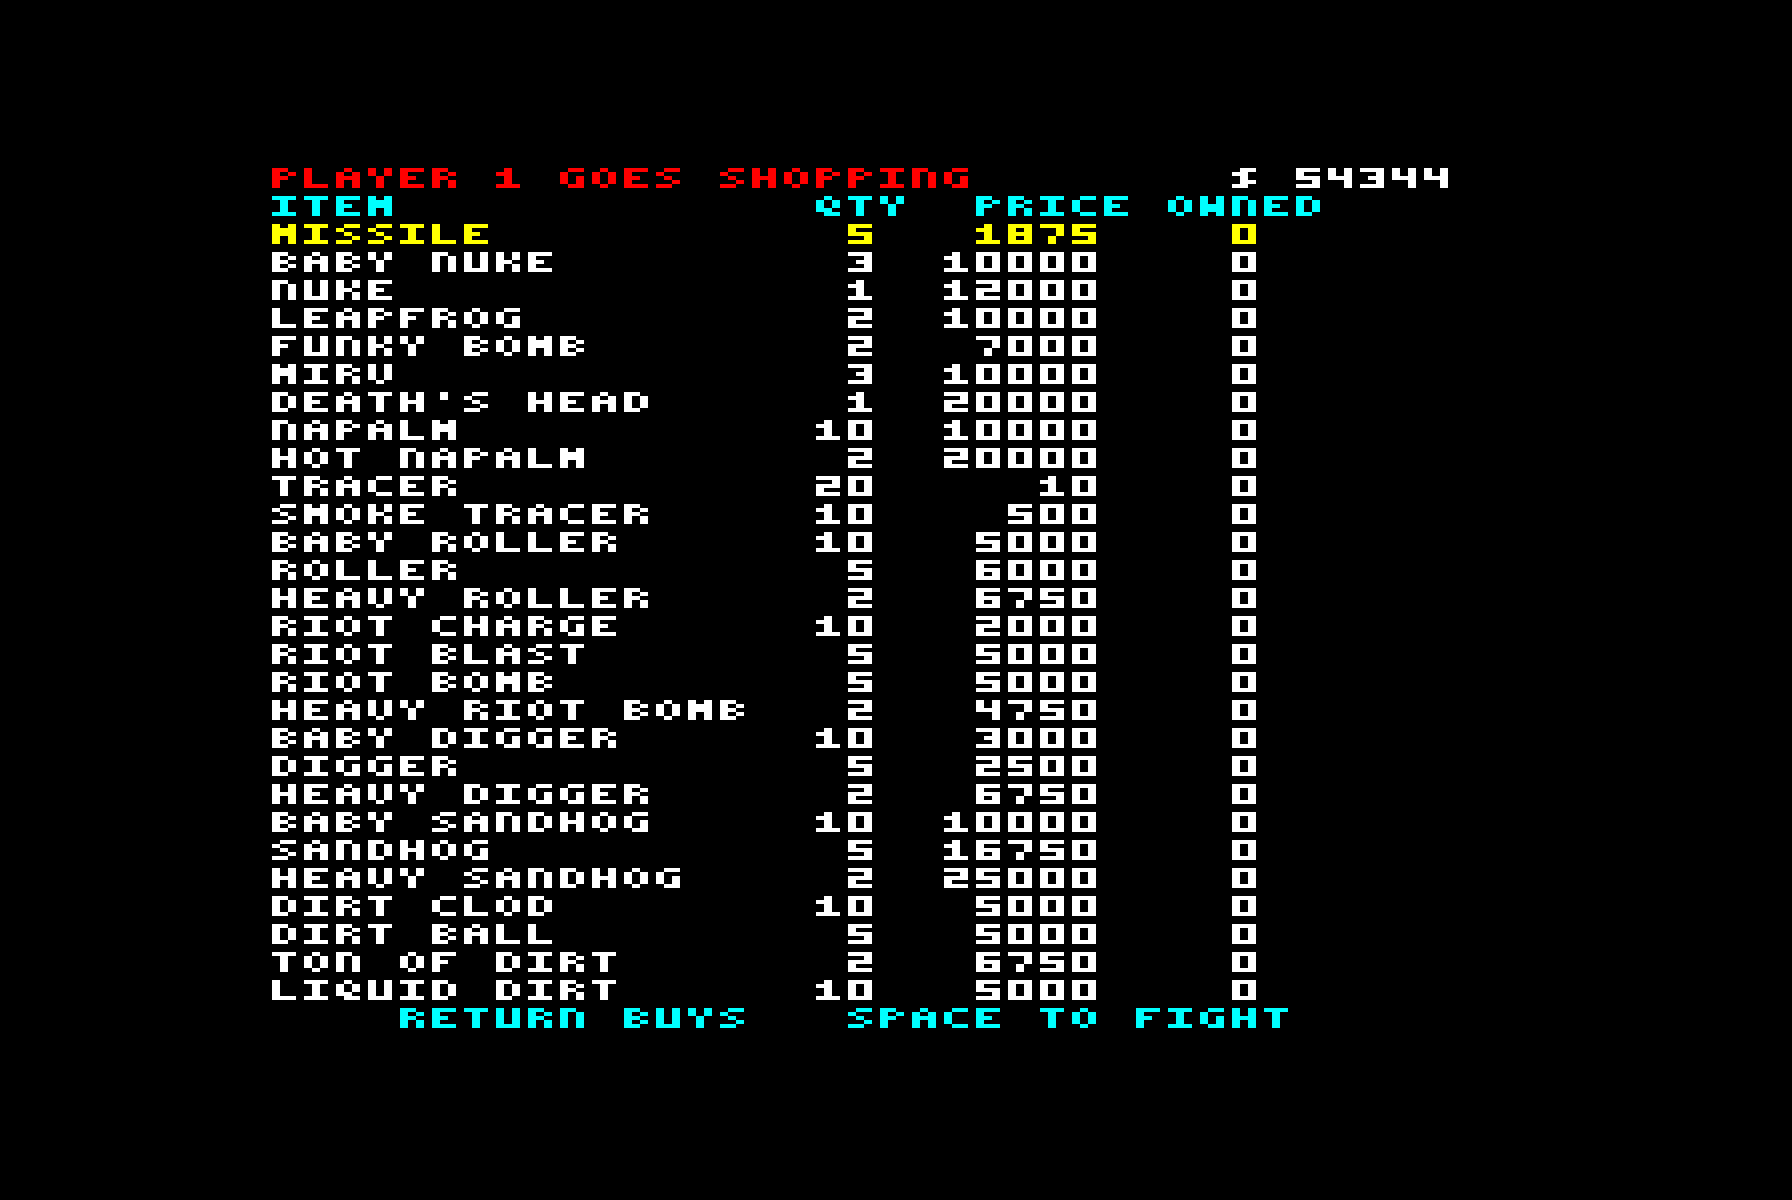
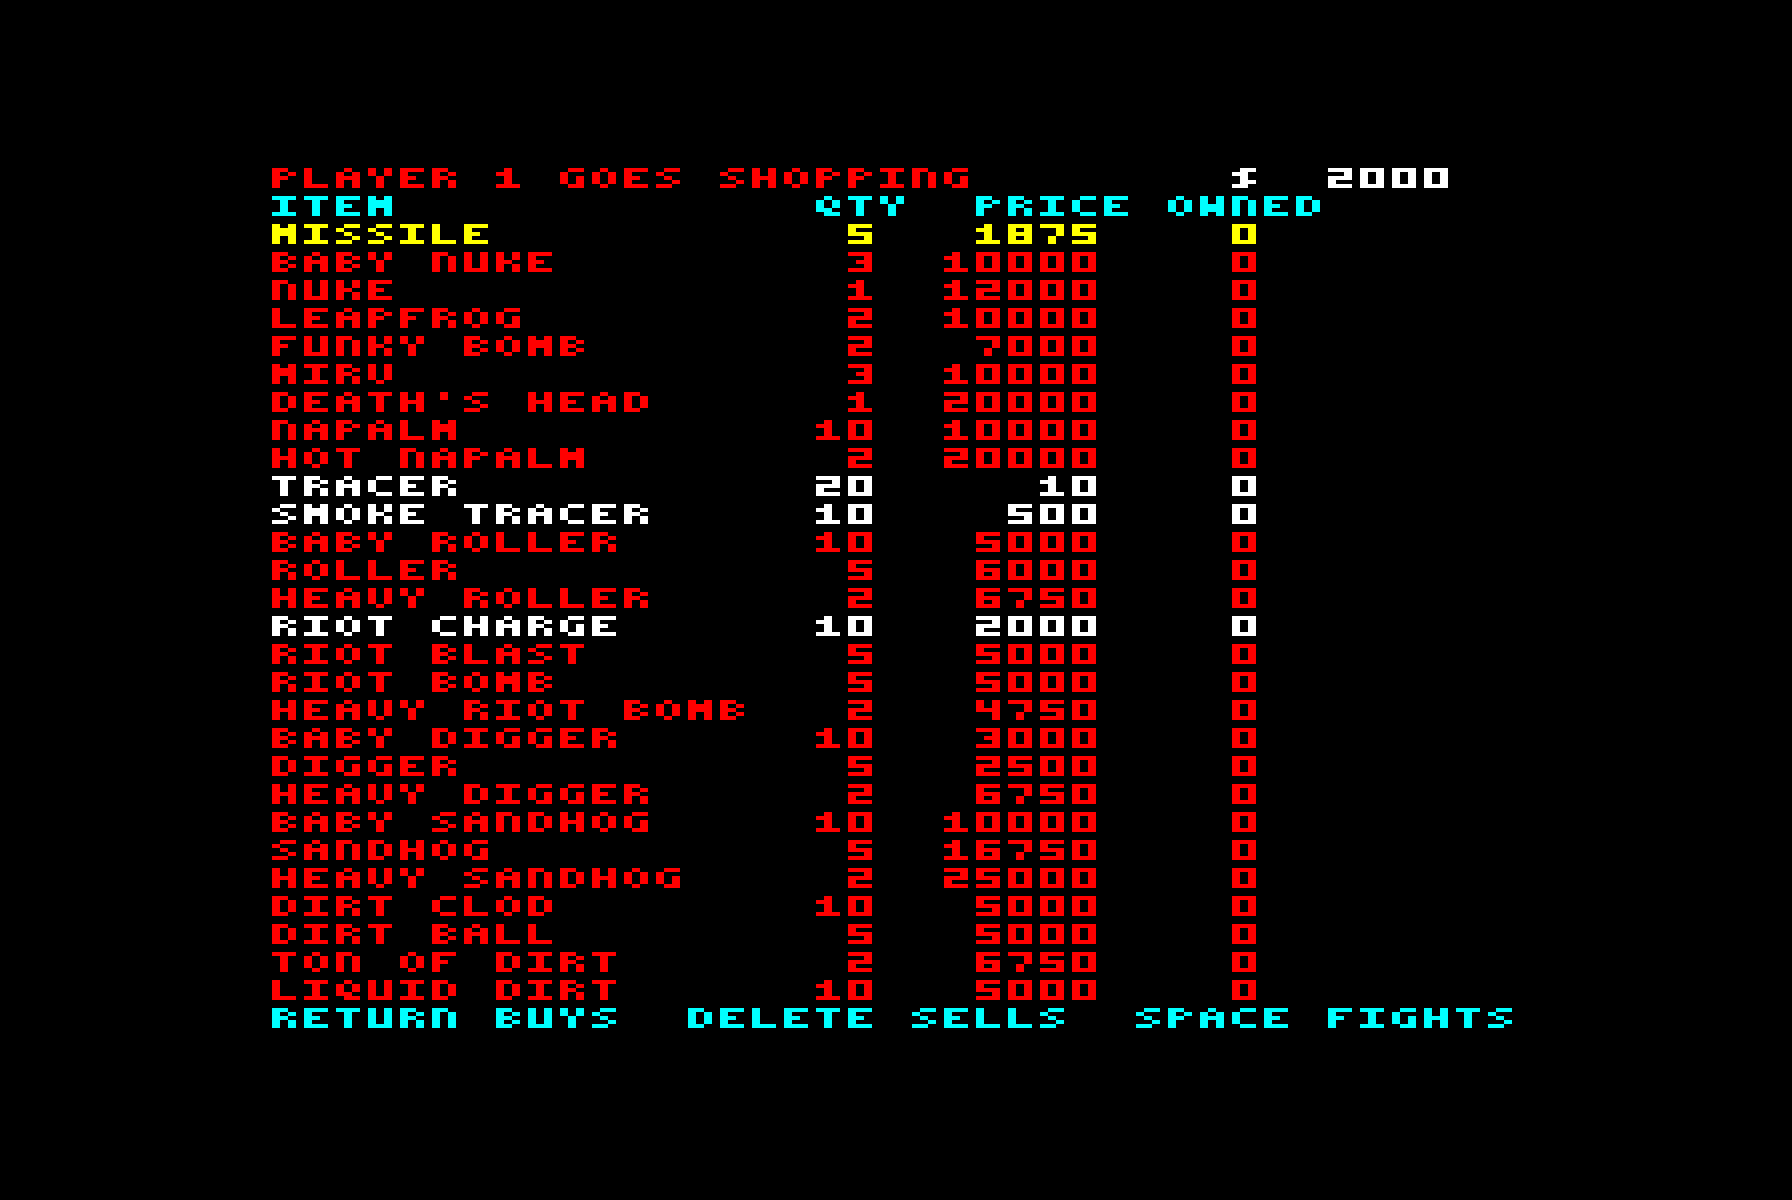
Bring the docs up to date for publication
- README: a screenshot of the MODE 7 title page; setup and shop shots
  retaken (the WIND line, DELETE SELLS); wind wording.
- DESIGN: the cut-down screen, the real memory map, 2-6 players.
- for-review: wind, walls and shields as they are now; the memory
  techniques are all done; the 0 v 8 scoreboard predates the winner fix.
- journal: the MODE 7 front end, and the winner bug.
- main.6502: the header said !BOOT runs SCORCH; it chains INTRO.

diff --git a/docs/for-review.md b/docs/for-review.md
@@ -13,7 +13,10 @@ and open questions so far:
   default STANDARD scoring also gives points for damage dealt (BASIC is
   kills and survival only; GREEDY ranks by net worth). Matt saw a 0 v 8
   scoreboard by round 6: with kill-and-win scoring a 2-player round is all
-  or nothing. Candidate: damage points, e.g. 1 per 25 damage.
+  or nothing. Candidate: damage points, e.g. 1 per 25 damage. **But**: from
+  the first day until 2026-10-04 every round's win (and its $10,000) went
+  to player 1 whoever won (`wait_frames` lost the winner, see journal.md),
+  so that scoreboard needs seeing again before scoring changes.
 - **Money.** Here: $50 per point of damage, $2,500 a kill, $10,000 for the
   round, $2,000 wage for everyone, ~5% interest, start with $0. The
   original's amounts are undocumented; the wage is ours (added after the
@@ -24,11 +27,11 @@ and open questions so far:
   Shooter +-60, Tosser +-120 halving per shot to a floor of +-7. Spoiler is
   the default opponent. Tune against how the original's feel.
 - **Wind.** Difference of two 0-15 randoms, shown x10 (so +-150, usually
-  small). The original: Max Wind 200, uniform per round, optional changing
-  wind.
-- **Walls.** Random each round from open, wrap, rubber, concrete. The
-  original defaults to one setting chosen in the menu (and has padded,
-  spring and erratic too).
+  small); steady, or changing by 10 on half the turns (a setup option).
+  The original: Max Wind 200, uniform per round, optional changing wind.
+- **Walls.** Random each round from open, wrap, rubber, concrete, padded
+  and spring, and erratic (a new kind each turn) a round in four. The
+  original defaults to one setting chosen in the menu.
 - **Draws.** A round still going after 50 turns is a draw. Not in the
   original.
 - **Fast-forward** once every human is dead. Not in the original.
@@ -36,8 +39,8 @@ and open questions so far:
   the original's contact triggers on.
 - **Dirt.** Always settles (the original's default). No suspended dirt.
 - **Turn order.** Rotates each round; the original defaults to random.
-- **Shields** absorb 60 damage then go; no deflection, no shield-on-
-  direct-hit rule.
+- **Shields** soak 40-200 points of damage then go; the two Mags also push
+  shells away. No shield-on-direct-hit rule.
 - **Missing weapons and items**: Earth Disrupter, Heat/Ballistic/
   Horizontal/Vertical Guidance, Auto Defense, Contact Trigger. Everything
   else in the original's shop is in. Our shields only soak damage; the
@@ -56,16 +59,8 @@ and open questions so far:
 - **Napalm strength**: 70 units x 2 damage (Hot: 120 x 3). Firing it into
   your own valley kills you, as it should; tune once played.
 
-## Memory techniques still on the table
+## Memory techniques
 
-- **Packed strings** (Matt's suggestion, the "5/8ths" trick he and Rich
-  used: low bits in nibbles plus a byte of top bits per 8 characters). The
-  text here is ~800 bytes of capitals, space and a little punctuation,
-  i.e. under 32 symbols: a 5-bit code with an escape for digits packs 8
-  characters into 5 bytes, ~300 bytes saved for a ~50-byte decoder. Baron
-  can pack at assembly time with a FUNCTION, so the source keeps plain
-  strings.
-- **A narrower screen**: 152 pixels instead of 160 frees 928 bytes (the
-  structural agent's measurement), at the cost of a 38-column status bar
-  and an own-font title.
-- **Spare zero page**: the allocator only reaches &42; &43-&8F is unused.
+All three once listed here are done (journal.md): packed strings, the
+shorter screen (29 rows rather than a narrower one), and the spare zero
+page, which now holds the busiest per-player arrays.

diff --git a/journal.md b/journal.md
@@ -457,3 +457,42 @@ a time, checking memory and committing after each:
   substep**: the flight code's one-pixel-a-substep promise holds.
 - **The turn loop's branches ran out of reach** when the drift and the
   erratic walls went in; they live in `between_turns` now.
+
+## A MODE 7 front end, for nothing
+
+`!BOOT` now chains `INTRO`, a BASIC program written inside the source
+with baron's `BASIC ... ENDBASIC` block (`src/intro.6502`): a teletext
+title over mosaic hills, three pages of instructions on I, then what
+`!BOOT` used to do, MODE 2 with the palette blacked out and `*RUN
+SCORCH`. SCORCH loads over it, so it costs the game no bytes; it only has
+to stay below &3000 with its variables (it ends near &2524).
+
+- **A line that fills all 40 columns wraps the cursor by itself**, so a
+  `PRINT` after it leaves a blank line: lines print with `;` and then
+  `IF POS PRINT`.
+- **Sixels are cheap to compute and slow to plot**: the hills went from
+  a visible crawl to instant by working out each column's height once
+  into `S%()` and building each cell as one `VDU` expression.
+- **The intro moved every tool's timing.** `startBeeb` presses SPACE
+  through it and waits 4s more; waiting exactly as long as the game
+  takes to start reading keys lost them, and the regress said so.
+
+## Every round went to player 1
+
+Retaking the README's screenshots, a tank that retreated won its round.
+`round_over` holds the winner in X across `wait_frames` ("keeps X", the
+comment said), but four minutes after "Shrink game.6502" wrote that,
+the next commit made `wait_frames` count in X, on the grounds that "its
+callers all reload X afterwards". From then on X came back 0: every
+round's point and $10,000 went to player 1, and a 50-turn stalemate was
+player 1's too. It counts in Y now, for no bytes.
+
+- **Neither test could see it.** The regress never finishes a round, and
+  the soak only watched for crashes. The soak now stops at `scores` and
+  checks the winner it is handed against the tanks left alive; on the old
+  disc it fails at the first stalemate.
+- **The playtest's 0 v 8 scoreboard** (docs/for-review.md) may be this
+  bug rather than the scoring rules.
+- **A register a routine keeps is a promise to its callers**: before
+  changing which registers a routine uses, grep its call sites for the
+  comments that rely on it.

diff --git a/DESIGN.md b/DESIGN.md
@@ -9,7 +9,8 @@ and why.
 
 ### Screen: MODE 2
 
-160x256, 8 steady colours (16 logical), 20K at `&3000`.
+160x256, 8 steady colours (16 logical), 20K at `&3000`, cut to 29
+character rows (160x232 from `&3780`) so the code gets the 1.9K below.
 
 - Scorched Earth *is* colour: each player owns one, explosions cycle hot
   colours, the sky and dirt change per round. MODE 1's 320 pixels would aim
@@ -49,11 +50,15 @@ is repainting.
 
 | Range | Use |
 |---|---|
-| `&00-&8F` | zero page, handed to baron's allocator |
-| `&0400-&07FF` | runtime tables (screen row addresses, column offsets) |
-| `&0900-&0CFF` | runtime tables (sky/dirt rows, heightmap) |
-| `&0E00-&2FFF` | code and data, copied down from `&1900` after `*TAPE` |
-| `&3000-&7FFF` | screen |
+| `&00-&8F` | zero page: baron's allocator, then the busiest per-player arrays |
+| `&0400-&07FF` | screen row addresses and sky/dirt colours by row (BASIC's workspace) |
+| `&0900-&0CFF` | the heightmap, blast and falling-dirt tables, per-player money and inventory |
+| other holes below `&0E00` | constant tables, copied there at start-up |
+| `&0E00-&377F` | code and data, copied down from `&1900` after `*TAPE` |
+| `&3780-&7FFF` | screen |
+
+`src/memory.6502` lays all of it out in guarded sections; the build prints
+how many bytes are left below the screen.
 
 The OS stays resident for `OSWORD 7` sound, `OSBYTE 129` keys and the MODE
 change; drawing never goes through it.
@@ -75,8 +80,8 @@ change; drawing never goes through it.
 
 ### Players
 
-2-4 tanks, each human or computer, in red, yellow, magenta and cyan. Turn
-order rotates each round.
+2-6 tanks, each human or computer, in red, yellow, magenta, cyan, white
+and blue. Turn order rotates each round.
 
 Computer players aim by **firing invisible test shots** through the real
 ballistics code (as the Atari clone does), then add an error that depends on

diff --git a/README.md b/README.md
@@ -9,7 +9,9 @@ assembly.
 That link hands [jsbeeb](https://github.com/mattgodbolt/jsbeeb) the disc
 image straight from this repository and boots it on a BBC B.
 
-![Title and setup](docs/img/title.png)
+![The title page](docs/img/intro.png)
+
+![Setup](docs/img/title.png)
 
 ![A Funky Bomb going off](docs/img/play.png)
 
@@ -31,7 +33,7 @@ game must be loaded in MODE 2 (see "How it works").
 
 UP/DOWN choose a line, LEFT/RIGHT change it: the number of players
 (2-6), the number of rounds (1-99), whether the wind is steady or
-changes a little after every shot, and who each player is - a human, or
+drifts between turns, and who each player is - a human, or
 one of the original's computer personalities:
 
 | | |
@@ -157,7 +159,7 @@ The game is developed against a headless BBC Micro, driven through the
 ```sh
 npm install     # the MCP client SDK
 make run        # boot it, screenshot to shots/run.png
-make test       # four computer players fight a 3-round game; fails on a crash
+make test       # four computer players fight a 3-round game; fails on a crash or a wrong winner
 ```
 
 `tools/play.mjs` runs scripted key presses with screenshots, screen dumps,
